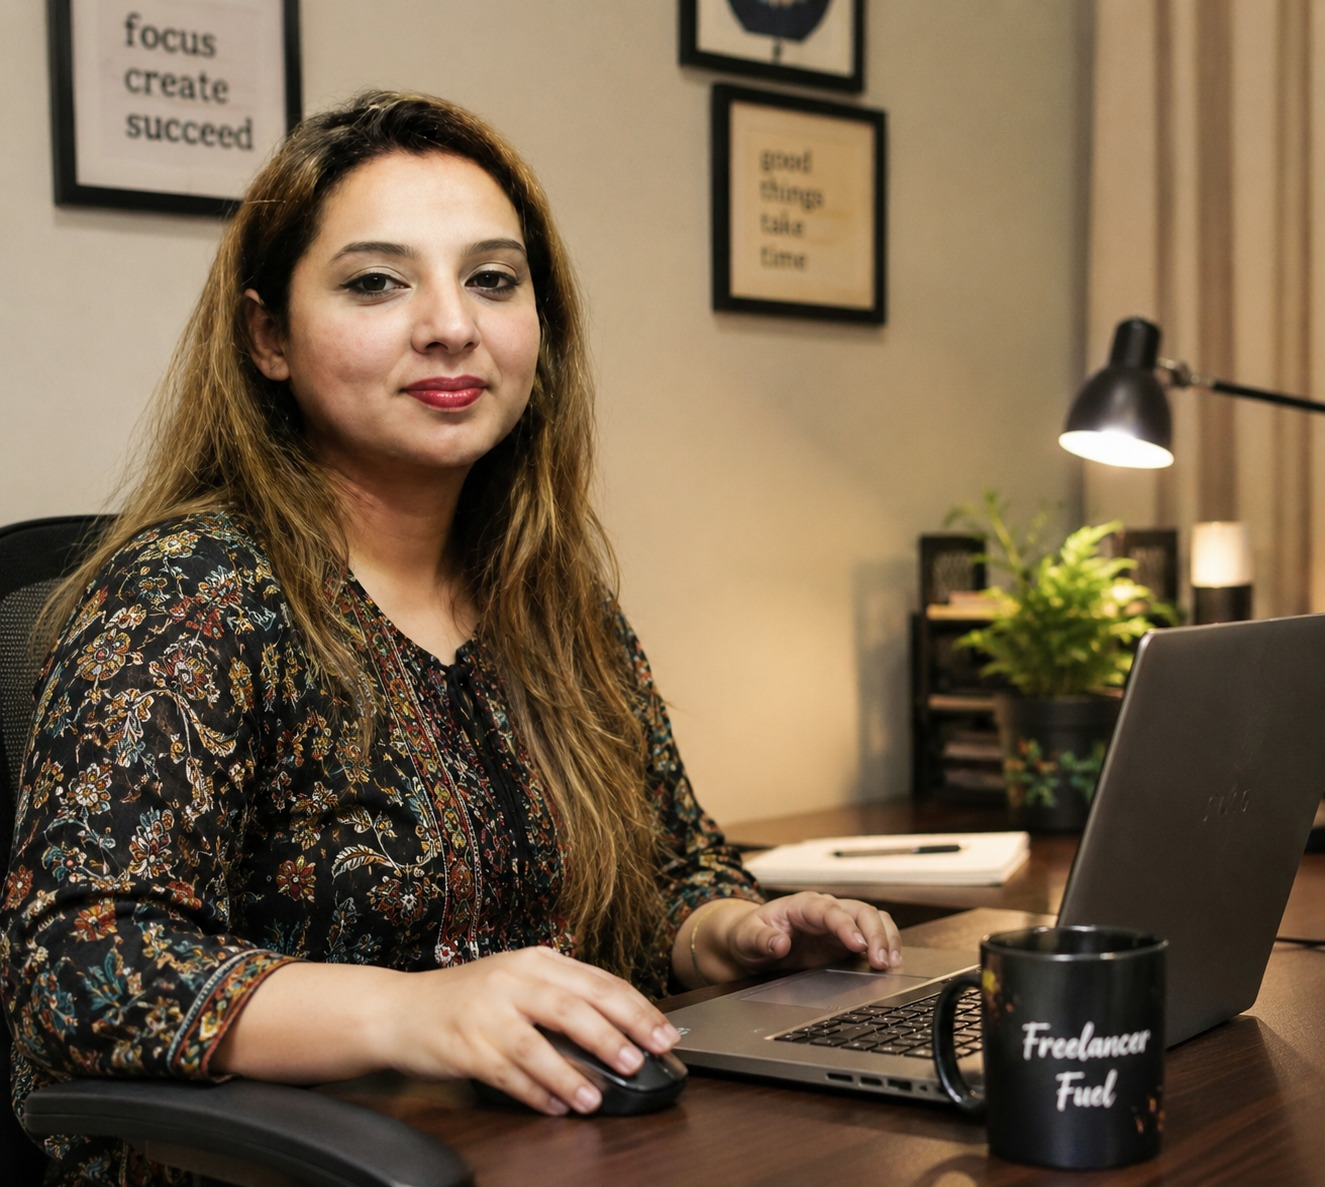
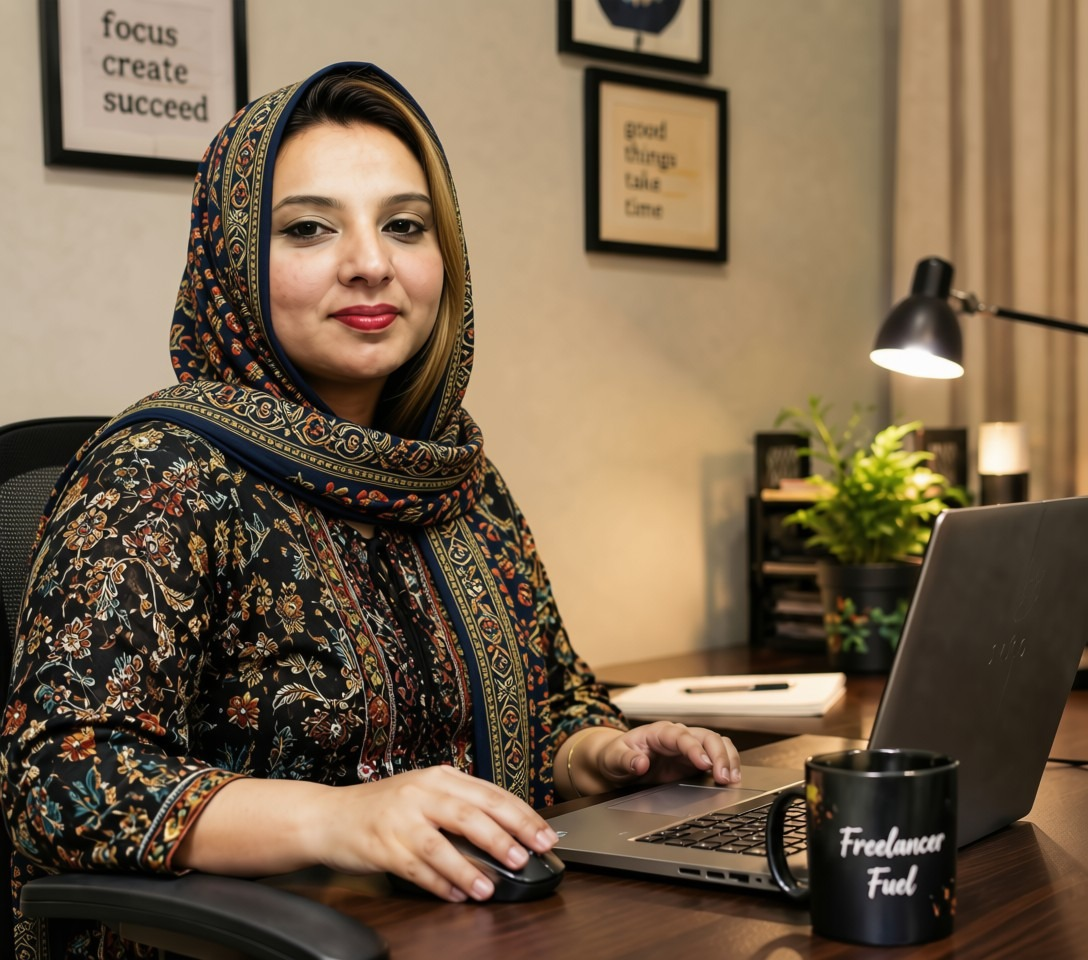
sdf

Changed region(s): [[0.0, 0.0625, 0.5625, 1.0], [0.6562, 0.8438, 0.75, 0.875], [0.7812, 0.4688, 0.8438, 0.5]]

diff --git a/index.html b/index.html
@@ -726,105 +726,114 @@
     </section>
 
 
-    <section id="contact">
+   <section id="contact">
 
-        <p
-            class="section__text"
-            style="padding-bottom: 0.3rem;">
+    <p
+        class="section__text"
+        style="padding-bottom: 0.3rem;">
+        Get In Touch
+    </p>
 
-            Get In Touch
+    <h1
+        class="title"
+        style="font-weight: 600;">
+        Contact Me
+    </h1>
 
-        </p>
+    <div class="contact-info-upper-container">
 
+        <!-- Email -->
+        <div class="contact-info-container">
+            <a href="mailto:wishraza83@outlook.com">
+                <img
+                    src="./Assets/email.png"
+                    alt="Email icon"
+                    class="icon contact-icon">
 
-        <h1
-            class="title"
-            style="font-weight: 600;">
+                <p>
+                    wishraza83@outlook.com
+                </p>
+            </a>
+        </div>
 
-            Contact Me
+        <!-- Phone -->
+        <div class="contact-info-container">
+            <a href="tel:+923327851945">
+                <img
+                    src="./Assets/phone.png"
+                    alt="Phone icon"
+                    class="icon contact-icon">
 
-        </h1>
+                <p>
+                    +92 332 7851945
+                </p>
+            </a>
+        </div>
 
+        <!-- Facebook -->
+        <div class="contact-info-container">
+            <a
+                href="https://www.facebook.com/share/1Bj3w3Yb4U/"
+                target="_blank"
+                rel="noopener noreferrer">
 
-        <div class="contact-info-upper-container">
+                <img
+                    src="./Assets/facebook.png"
+                    alt="Facebook icon"
+                    class="icon contact-icon rounded">
 
+                <p>
+                    Facebook
+                </p>
+            </a>
+        </div>
 
-            <!-- Email -->
+        <!-- LinkedIn -->
+        <div class="contact-info-container">
+            <a
+                href="https://www.linkedin.com/in/mehwish-raza-naqvi-35a152434"
+                target="_blank"
+                rel="noopener noreferrer">
 
-            <div class="contact-info-container">
+                <img
+                    src="./Assets/linkedin.png"
+                    alt="LinkedIn icon"
+                    class="icon contact-icon rounded">
 
-                <a href="mailto:wishraza83@outlook.com">
+                <p>
+                    LinkedIn
+                </p>
+            </a>
+        </div>
 
-                    <img
-                        src="./Assets/email.png"
-                        alt="Email icon"
-                        class="icon contact-icon">
+        <!-- Instagram -->
+        <div class="contact-info-container">
+            <a
+                href="https://www.instagram.com/wishraza832026/"
+                target="_blank"
+                rel="noopener noreferrer">
 
-                    <p>
-                        wishraza83@outlook.com
-                    </p>
+                <img
+                    src="./Assets/instagram.png"
+                    alt="Instagram icon"
+                    class="icon contact-icon rounded">
 
-                </a>
+                <p>
+                    Instagram
+                </p>
+            </a>
+        </div>
 
-            </div>
+    </div>
 
-
-            <!-- Phone -->
-
-            <div class="contact-info-container">
-
-                <a href="tel:+923327851945">
-
-                    <img
-                        src="./Assets/phone.png"
-                        alt="Phone icon"
-                        class="icon contact-icon">
-
-                    <p>
-                        +92 332 7851945
-                    </p>
-
-                </a>
-
-            </div>
-
-
-     <!-- Facebook -->
-
-<div class="contact-info-container">
-
-    <a
-        href="https://www.facebook.com/share/1Bj3w3Yb4U/"
-        target="_blank">
-
+    <div class="logo">
         <img
-            src="./Assets/facebook.png"
-            alt="Facebook icon"
-            class="icon contact-icon rounded">
+            src="./Assets/logo.png"
+            alt="Mehwish Zafar"
+            onclick="location.href='./#profile'">
+    </div>
 
-        <p>
-            Facebook
-        </p>
-
-    </a>
-
-</div>
-
-
-        </div>
-
-
-        <div class="logo">
-
-            <img
-                src="./Assets/logo.png"
-                alt="Mehwish Zafar"
-                onclick="location.href='./#profile'">
-
-        </div>
-
-    </section>
-
+</section>
 
     <footer>
 
